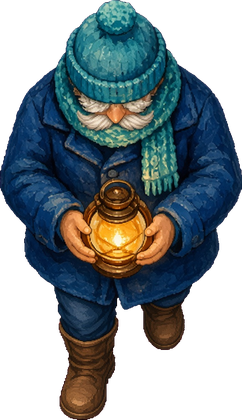
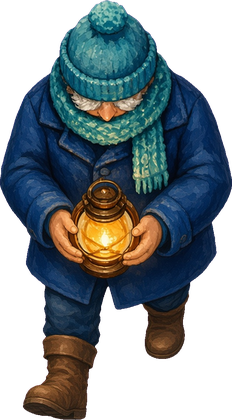
Publica Lume

diff --git a/lume/game.js b/lume/game.js
@@ -128,6 +128,7 @@
         vx: 0, vy: 0, feridoAte: 0, flash: 0, marSom: 0
       },
       inimigos: [],
+      corpos: [],
       tiros: [],
       brasas: [],
       pocos: [],
@@ -694,9 +695,18 @@
       }
     }
 
+    if (s.corpos.length) {
+      var ci;
+      for (ci = s.corpos.length - 1; ci >= 0; ci--) {
+        if (s.t >= s.corpos[ci].ate) s.corpos.splice(ci, 1);
+      }
+    }
     for (i = s.inimigos.length - 1; i >= 0; i--) {
       e = s.inimigos[i];
       if (e.hp <= 0) {
+        if (e.tipo === "caranguejo" || e.tipo === "gaivota" || e.tipo === "onda") {
+          s.corpos.push({ tipo: e.tipo, x: e.x, y: e.y, desenho: e.desenho, ate: s.t + 0.45 });
+        }
         soltar(s, e);
         s.inimigos.splice(i, 1);
         continue;
@@ -815,6 +825,12 @@ function pagina(api) {
     caranguejo: "art/caranguejo.png",
     gaivota: "art/gaivota.png",
     onda: "art/onda.png",
+    caranguejoAgir: "art/caranguejo-agir.png",
+    caranguejoCair: "art/caranguejo-cair.png",
+    gaivotaAgir: "art/gaivota-agir.png",
+    gaivotaCair: "art/gaivota-cair.png",
+    ondaAgir: "art/onda-agir.png",
+    ondaCair: "art/onda-cair.png",
     vaga: "art/vaga.png",
     brasa: "art/brasa.png",
     fagulha: "art/fagulha.png",
@@ -1249,6 +1265,18 @@ function pagina(api) {
     }
   }
 
+  function peca(img, x, y, lado, ang, alfa) {
+    if (!img || !img.complete || !img.naturalWidth) return false;
+    var alt = lado * img.naturalHeight / img.naturalWidth;
+    ctx.save();
+    ctx.translate(x, y);
+    if (ang) ctx.rotate(ang + Math.PI / 2);
+    ctx.globalAlpha = alfa == null ? 1 : alfa;
+    ctx.drawImage(img, -lado / 2, -alt / 2, lado, alt);
+    ctx.restore();
+    return true;
+  }
+
   function sprite(img, x, y, w, ang, alfa, escX, escY) {
     if (!img || !img.complete || !img.naturalWidth) return;
     ctx.save();
@@ -1308,10 +1336,20 @@ function pagina(api) {
       g = estado.tiros[i];
       sprite(imgs.fagulha, g.x, g.y, g.largo ? 36 : 22, Math.atan2(g.vy, g.vx), 1);
     }
+    for (i = 0; i < (estado.corpos || []).length; i++) {
+      var c = estado.corpos[i];
+      if (estado.t > c.ate) continue;
+      peca(imgs[c.tipo + "Cair"], c.x, c.y, c.desenho || 64, 0, 1);
+    }
     for (i = 0; i < estado.inimigos.length; i++) {
       e = estado.inimigos[i];
       var escY = 1;
       var angE = e.tipo === "vaga" ? estado.t * 0.35 : e.ang;
+      var agir = null;
+      if (e.tipo === "gaivota" && e.impulso > 0) agir = imgs.gaivotaAgir;
+      else if (e.tipo === "caranguejo" && dist(e.x, e.y, p.x, p.y) < p.raio + e.raio + 36) agir = imgs.caranguejoAgir;
+      else if (e.tipo === "onda" && e.pocoEm > 2.2) agir = imgs.ondaAgir;
+      if (agir && peca(agir, e.x, e.y, e.desenho, e.ang, e.flash > 0 ? 0.55 : 1)) continue;
       if (e.tipo === "gaivota") escY = 1 + Math.sin(estado.t * 16 + e.id) * 0.16;
       if (e.tipo === "caranguejo") angE += Math.sin(estado.t * 11 + e.id) * 0.18;
       if (e.tipo === "onda") angE += Math.sin(estado.t * 2 + e.id) * 0.25;

diff --git a/lume/index.html b/lume/index.html
@@ -5,7 +5,7 @@
   <meta name="viewport" content="width=device-width, initial-scale=1, maximum-scale=1, user-scalable=no, viewport-fit=cover">
   <meta name="theme-color" content="#06141c">
   <title>Lume</title>
-  <link rel="stylesheet" href="game.css">
+  <link rel="stylesheet" href="game.css?v=0.3">
 </head>
 <body>
   <canvas id="jogo" width="390" height="844"></canvas>
@@ -17,6 +17,16 @@
       <h1>Lume</h1>
       <p>A maré de vidro sobe. A lanterna atira sozinha. História, modos, infinito e ranque. Arraste o dedo para andar.</p>
       <button id="acender" type="button" disabled>Acendendo…</button>
+      <button id="versao" type="button">0.3</button>
+    </div>
+  </section>
+
+  <section id="versoes" hidden>
+    <div class="caixa">
+      <p class="marca">Versões</p>
+      <h2 id="versao-atual">0.3</h2>
+      <ul id="lista-versoes"></ul>
+      <button id="fechar-versoes" type="button">Fechar</button>
     </div>
   </section>
 
@@ -46,6 +56,24 @@
     </div>
   </section>
 
-  <script src="game.js"></script>
+  <script src="game.js?v=0.3"></script>
+  <script>
+    (function () {
+      var lista = [
+        ["0.3", "Toque na versão abre o que mudou."],
+        ["0.2", "Caranguejo, gaivota e onda ganharam desenho de agir e de cair."],
+        ["0.1", "Faroleiro de cima: passo, acerto na lanterna e queda."]
+      ];
+      var painel = document.getElementById("versoes");
+      var ul = document.getElementById("lista-versoes");
+      lista.forEach(function (item) {
+        var li = document.createElement("li");
+        li.textContent = item[0] + " — " + item[1];
+        ul.appendChild(li);
+      });
+      document.getElementById("versao").onclick = function () { painel.hidden = false; };
+      document.getElementById("fechar-versoes").onclick = function () { painel.hidden = true; };
+    })();
+  </script>
 </body>
 </html>

diff --git a/lume/game.css b/lume/game.css
@@ -88,7 +88,49 @@ h1 { font-size: 3rem; }
 h2 { font-size: 2rem; }
 
 #titulo p { margin: 0 0 1rem; max-width: 22rem; }
-#acender, #de-novo, #ao-mapa { width: min(100%, 20rem); }
+#acender, #de-novo, #ao-mapa, #fechar-versoes { width: min(100%, 20rem); }
+#versao {
+  display: block;
+  width: auto;
+  min-height: 36px;
+  margin: 0.7rem 0 0;
+  padding: 0.2rem 0.85rem;
+  font: 14px/1 system-ui, sans-serif;
+  letter-spacing: 0.08em;
+  background: transparent;
+  border-color: rgba(224, 162, 58, 0.7);
+}
+#versoes {
+  position: fixed;
+  inset: 0;
+  z-index: 5;
+  display: flex;
+  align-items: flex-end;
+  padding: 1rem 1rem calc(0.8rem + env(safe-area-inset-bottom));
+  background: rgba(4, 10, 16, 0.82);
+}
+#versoes[hidden] { display: none; }
+#versoes .caixa {
+  width: min(24rem, 100%);
+  max-height: 70%;
+  overflow: auto;
+  margin: 0 auto;
+  padding: 1rem 1rem 0.8rem;
+  background: #102028;
+  border: 1px solid #e0a23a;
+  border-radius: 16px;
+}
+#lista-versoes {
+  margin: 0 0 1rem;
+  padding: 0;
+  list-style: none;
+}
+#lista-versoes li {
+  margin: 0;
+  padding: 0.55rem 0;
+  border-bottom: 1px solid rgba(224, 162, 58, 0.25);
+  font-size: 0.95rem;
+}
 #fim .caixa button { margin: 0.35rem 0; }
 
 #mapa img {
